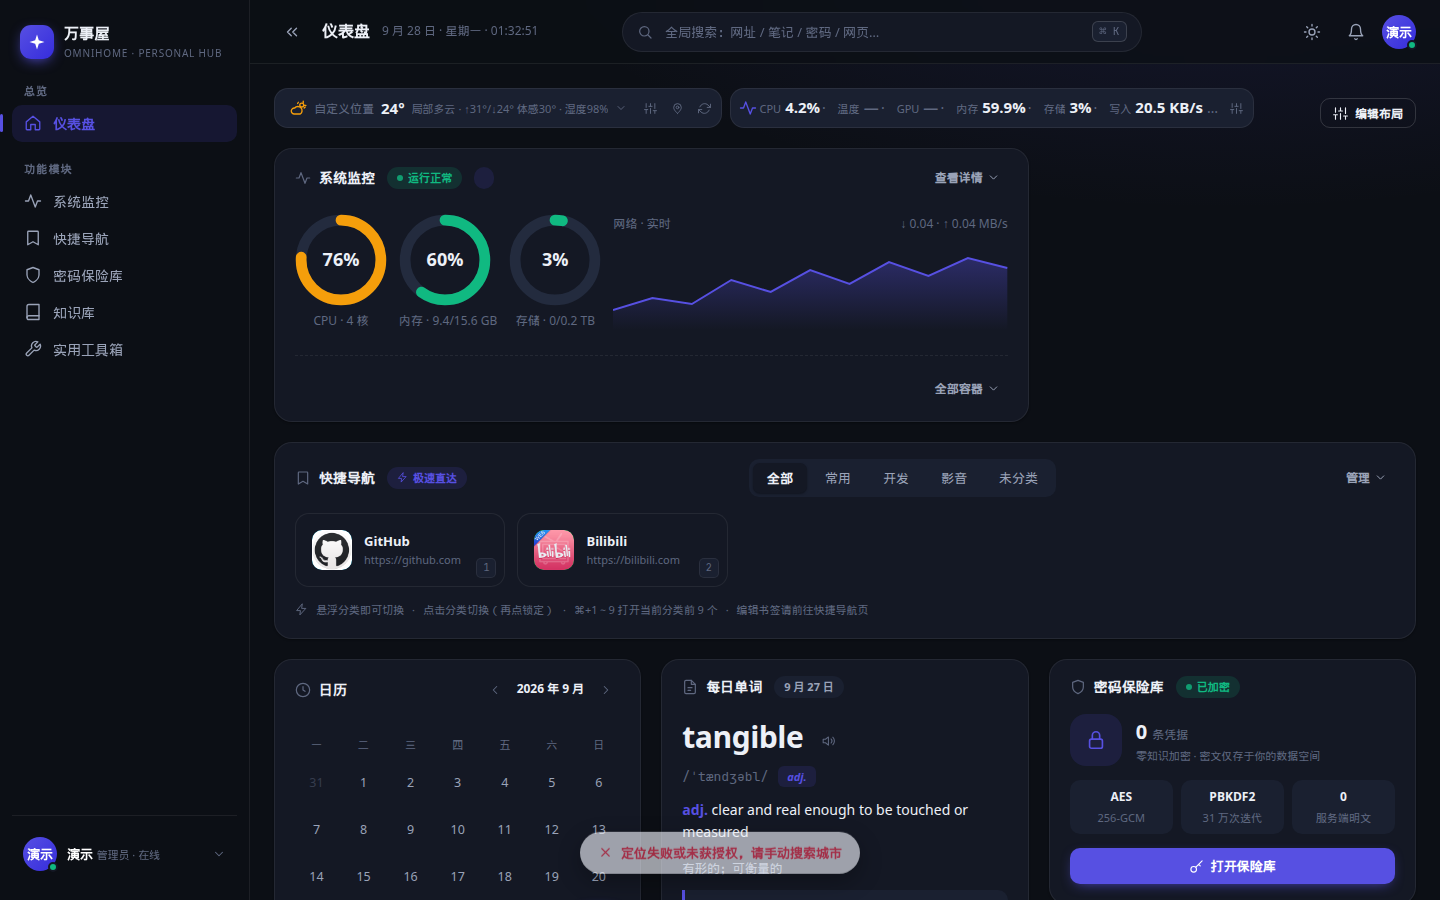
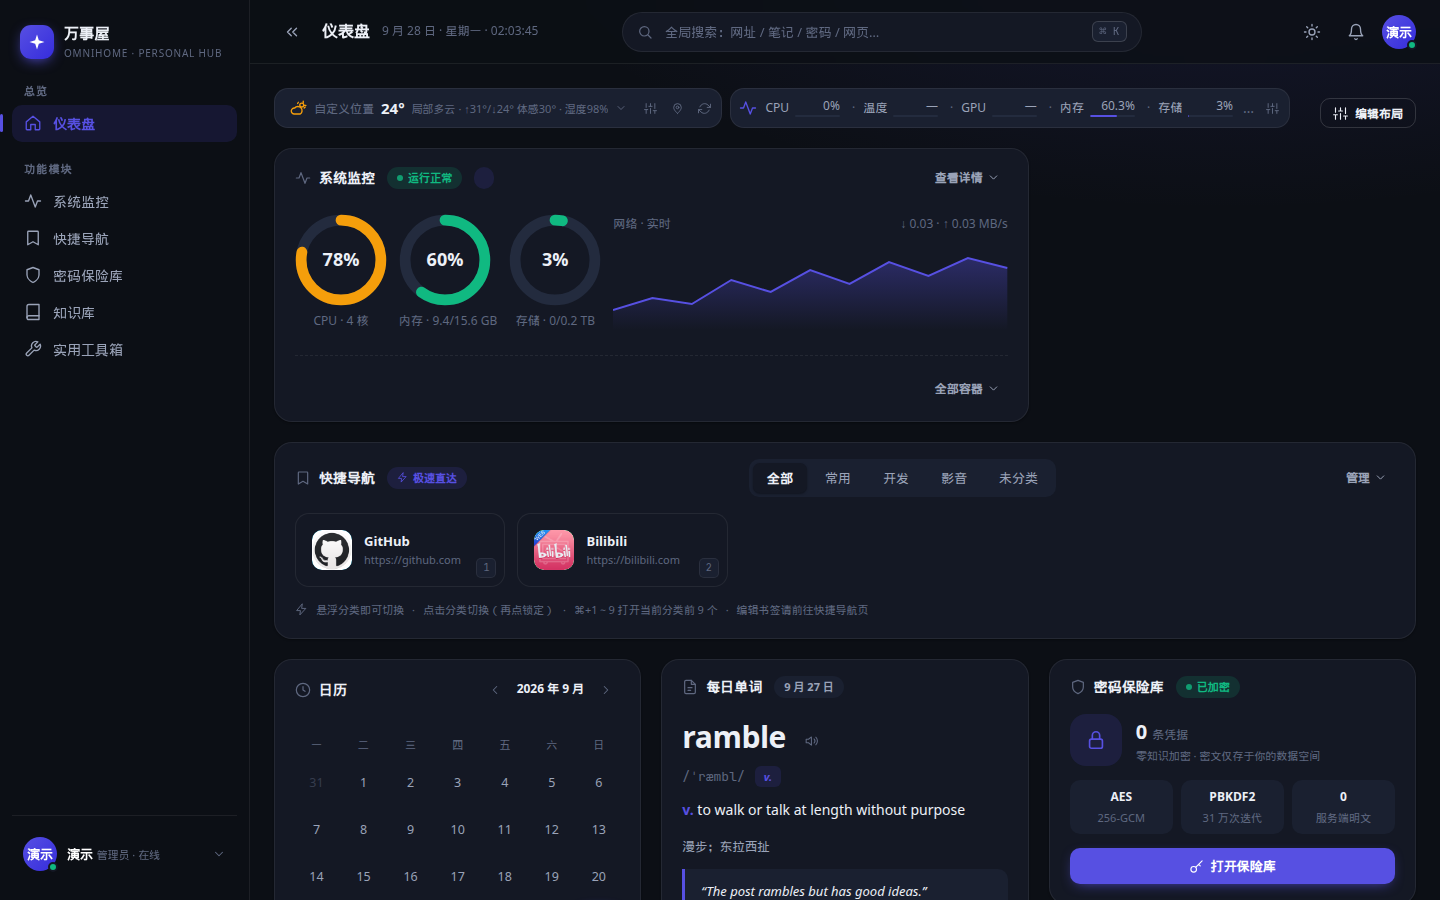
v0.3.20: 监控横条数值槽固定宽度，刷新不再撑开整条 (#25)

Changed region(s): [[0.4062, 0.8089, 0.6562, 0.9956], [0.6562, 0.0933, 0.875, 0.1244], [0.5312, 0.0933, 0.625, 0.1244]]

diff --git a/demo/js/sysbar.js b/demo/js/sysbar.js
@@ -65,6 +65,30 @@
     if (kb >= 0.05) return trimNum(kb) + ' KB/s';
     return '0 KB/s';
   }
+  /* 只用于轨道填充宽度，不改变展示文案。百分比直接映射，温度按 0–100℃，速率按对数压到 0–100。 */
+  function fillRatio(key, d){
+    if (!d) return null;
+    const gpu = d.gpu || {};
+    let n = null;
+    if (key === 'cpu') n = finite(d.cpu);
+    else if (key === 'mem') n = finite(d.mem);
+    else if (key === 'disk') n = finite(d.diskPercent);
+    else if (key === 'gpu') n = gpu.available ? finite(gpu.util) : null;
+    else if (key === 'cpuTemp') n = finite(d.cpuTemp);
+    else if (key === 'diskRead') n = finite(d.diskRead);
+    else if (key === 'diskWrite') n = finite(d.diskWrite);
+    else if (key === 'netUp') n = finite(d.netUp);
+    else if (key === 'netDown') n = finite(d.netDown);
+    if (n == null || n < 0) return null;
+    if (key === 'cpu' || key === 'mem' || key === 'disk' || key === 'gpu'){
+      return n > 100 ? null : n;
+    }
+    if (key === 'cpuTemp') return Math.max(0, Math.min(100, n));
+    if (n === 0) return 0;
+    const kb = n * 1024;
+    return Math.max(0, Math.min(100, Math.log10(kb + 1) / Math.log10(100 * 1024) * 100));
+  }
+
   function valueOf(key, d){
     if (!d) return null;
     const gpu = d.gpu || {};
@@ -91,7 +115,8 @@
       row.dataset.key = key;
       row.innerHTML = sel.map(k => {
         const m = META[k];
-        return `<span class="sys-m" data-k="${k}"><span class="sys-m-k">${m.short}</span><b class="sys-m-v num">—</b></span>`;
+        const kind = (k === 'diskWrite' || k === 'diskRead' || k === 'netUp' || k === 'netDown') ? 'is-rate' : 'is-pct';
+        return `<span class="sys-m ${kind}" data-k="${k}"><span class="sys-m-k">${m.short}</span><span class="sys-m-slot"><span class="sys-m-track" aria-hidden="true"><span class="sys-m-fill"></span></span><b class="sys-m-v num">—</b></span></span>`;
       }).join('') + '<span class="sys-more" id="sysMore" hidden>…</span>';
     }
     sel.forEach(k => {
@@ -102,6 +127,11 @@
       el.classList.toggle('is-miss', miss);
       const v = el.querySelector('.sys-m-v');
       if (v) v.textContent = miss ? '—' : text;
+      const fill = el.querySelector('.sys-m-fill');
+      if (fill){
+        const ratio = fillRatio(k, last);
+        fill.style.width = (ratio == null ? 0 : ratio) + '%';
+      }
       el.title = META[k].full + (miss ? ' · 暂无数据' : ' ' + text);
     });
     const strip = $('#sysStrip');
@@ -128,7 +158,10 @@
       const gap = parseFloat(getComputedStyle(slot).columnGap) || 0;
       const weatherW = weather ? weather.getBoundingClientRect().width : 0;
       const available = Math.max(40, Math.floor(slot.clientWidth - weatherW - gap));
-      strip.style.maxWidth = available + 'px';
+      /* 外层不超过按钮左侧的剩余宽度；槽位本身已固定，不再按文案改 width */
+      const cap = available + 'px';
+      if (strip.style.maxWidth !== cap) strip.style.maxWidth = cap;
+      if (strip.style.width) strip.style.width = '';
       const items = [...row.querySelectorAll('.sys-m')];
       const more = $('#sysMore');
       items.forEach(el => {
@@ -137,12 +170,7 @@
       });
       if (more) more.hidden = true;
       /* 手机：指标在横条内横向滚动，不换行、不顶到下一行的按钮 */
-      if (window.matchMedia('(max-width: 768px)').matches){
-        strip.style.width = '';
-        return;
-      }
-      /* 测量时先拉到上限，避免「随内容收缩」导致 clientWidth 跟着指标一起变 */
-      strip.style.width = available + 'px';
+      if (window.matchMedia('(max-width: 768px)').matches) return;
       const overflow = () => row.scrollWidth > row.clientWidth + 1;
       let guard = items.length + 2;
       while (guard-- && overflow()){
@@ -161,7 +189,6 @@
       if (more && !more.hidden){
         more.title = items.filter(el => el.hidden).map(el => el.title).filter(Boolean).join(' · ');
       }
-      strip.style.width = '';
     } finally {
       fitting = false;
     }

diff --git a/demo/css/components/weather.css b/demo/css/components/weather.css
@@ -129,13 +129,14 @@
 .vh-strips .wxs-city{ flex: 0 1 auto; min-width: 0; }
 .vh-strips .wxs-ops{ flex: none; }
 
-/* ---------- 系统监控横条：高度、边框、圆角与天气横条一致 ---------- */
+/* ---------- 系统监控横条：高度、边框、圆角、间距与天气横条一致 ----------
+   每项数值槽是固定宽度的轨道，只有槽底填充随数值变化。
+   整条按这些固定槽位排开，刷新时不跟着数字变长。 */
 .sys-strip{
   position: relative;
   display: flex; align-items: center; gap: 2px;
   height: 40px; padding: 0 4px 0 8px;
-  flex: 0 1 auto; min-width: 40px;
-  width: max-content; max-width: 100%;
+  flex: 0 1 auto; width: max-content; min-width: 0; max-width: 100%;
   border: 1px solid var(--om-border);
   border-radius: var(--om-radius-md);
   background: var(--om-surface-2);
@@ -149,25 +150,59 @@
   display: flex; align-items: center;
   min-width: 0; overflow: hidden;
   flex: 1 1 auto;
+  height: 100%;
 }
 .sys-m{
-  display: inline-flex; align-items: baseline; gap: 4px;
+  display: inline-flex; align-items: center; gap: 6px;
   flex: none; white-space: nowrap;
-  color: var(--om-text-3);
+  height: 100%; padding: 0 6px;
+  color: var(--om-text-2);
 }
 .sys-m + .sys-m::before{
   content: "·";
-  margin: 0 8px 0 2px;
+  margin: 0 2px 0 0;
   color: var(--om-text-3);
-  font-weight: 400;
+  font-size: 12px; font-weight: 500; line-height: 16px;
 }
-.sys-m-k{ font-size: 11px; color: var(--om-text-3); flex: none; }
-.sys-m-v{ font-size: 15px; font-weight: 700; color: var(--om-text-1); flex: none; }
-.sys-m.is-miss .sys-m-v{ font-weight: 600; color: var(--om-text-3); }
+/* 名称与数值同一套字号、字重、颜色、行高 */
+.sys-m-k,
+.sys-m-v{
+  font-family: inherit;
+  font-size: 12px; font-weight: 500; line-height: 16px;
+  color: var(--om-text-2);
+  flex: none;
+}
+/* 数值槽即固定轨道：百分比与速率各用一个宽度，刷新不改槽宽 */
+.sys-m-slot{
+  position: relative;
+  display: inline-flex; align-items: flex-end; justify-content: flex-end;
+  flex: none;
+  height: 18px; padding-bottom: 3px;
+  box-sizing: border-box;
+}
+.sys-m.is-pct .sys-m-slot{ width: 5.6ch; }
+.sys-m.is-rate .sys-m-slot{ width: 8.8ch; }
+.sys-m-v{
+  display: block;
+  width: 100%;
+  text-align: right;
+  font-variant-numeric: tabular-nums;
+  overflow: hidden; text-overflow: ellipsis; white-space: nowrap;
+}
+.sys-m-track{
+  position: absolute; left: 0; right: 0; bottom: 0;
+  height: 2px;
+  border-radius: 999px;
+  background: var(--om-surface-3);
+  overflow: hidden;
+}
+.sys-m-fill{
+  display: block;
+  height: 100%; width: 0%;
+  border-radius: inherit;
+  background: var(--om-primary);
+}
 .sys-m.is-clip{ flex: 0 1 auto; min-width: 0; overflow: hidden; }
-.sys-m.is-clip .sys-m-v{
-  min-width: 0; overflow: hidden; text-overflow: ellipsis;
-}
 .sys-more{
   flex: none; margin-left: 4px;
   font-size: 14px; line-height: 1; color: var(--om-text-3);

diff --git a/README.md b/README.md
@@ -34,7 +34,7 @@
 
 - **全局搜索**（`⌘/Ctrl + K`）：站内检索笔记、书签等；也可把关键词交给 Google、Bing、DuckDuckGo、百度。最近搜索可隐藏或清空。
 - **天气横条**：显示在仪表盘顶部。可改横条上要看的字段，用定位或搜索城市切换位置。点横条打开详情（体感、湿度、降雨、空气、紫外线和未来几天）。
-- **系统监控横条**：紧挨天气横条右侧，和它一样高。管理员在设置里打开系统监控后出现。可勾选 CPU 利用率、CPU 温度、GPU 利用率、内存使用率、存储占用、磁盘读写速度、网络上传和下载。勾选记在当前账号里，没勾选的不占位置。没有对应传感器时显示「—」。窗口变窄或指标太多时，靠右的指标先收起，不换行，也不盖住右侧的「编辑布局」；编辑状态下同样让开「添加组件」和「完成」。
+- **系统监控横条**：紧挨天气横条右侧，高度、圆角和间距与天气横条一致。管理员在设置里打开系统监控后出现。可勾选 CPU 利用率、CPU 温度、GPU 利用率、内存使用率、存储占用、磁盘读写速度、网络上传和下载。勾选记在当前账号里，没勾选的不占位置。每项数值用同一套较小字号，占固定宽度，底下的细条随数值增减；数字刷新时整条不会变长或换行。没有对应传感器时显示「—」。窗口变窄或指标太多时，靠右的指标先收起，不换行，也不盖住右侧的「编辑布局」；编辑状态下同样让开「添加组件」和「完成」。
 - **明暗模式**：顶栏一键切换。主色、密度、动效在设置里，和明暗互相独立。
 - **通知**：顶栏铃铛。同步审批等事项进收件箱。
 - **用户菜单**：个人中心、设置、切换已登录过的账号、退出。侧栏底部用户卡片也进设置。

diff --git a/CHANGELOG.md b/CHANGELOG.md
@@ -4,6 +4,7 @@
 
 - 新增：仪表盘顶部天气横条右侧增加系统监控横条，实时显示 CPU、温度、GPU、内存、存储占用、磁盘读写和网络上下行
 - 新增：监控横条可勾选要显示的指标，选择记在当前账号里；没勾选的不占位置
+- 优化：监控横条每项数值占固定宽度，只有底下的填充随数值变化；字号、字重和颜色统一，刷新时整条不再变长或换行
 - 优化：指标过多或窗口变窄时从右侧收起，手机上可在横条内横向滑动；不换行，也不挡住「编辑布局」「添加组件」和「完成」
 - 优化：没有 GPU 或温度等数据时显示「—」，不报错
 
